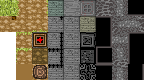
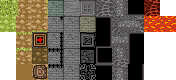
Room transitions and message done

diff --git a/src/cdsv_rogue/Room.java b/src/cdsv_rogue/Room.java
@@ -20,6 +20,8 @@ public class Room extends World {
 	private ArrayList<Unit> enemies;
 	private TiledMap room;
 	private Animation teleport;
+	private int currentRoom;
+	private Image message;
 
 	public Room(int id, GameContainer gc) throws SlickException {
 		super(id, gc);
@@ -30,20 +32,15 @@ public class Room extends World {
 			throws SlickException {
 		super.init(gc, sbg);
 		room = new TiledMap("res/levels/exampleRoom.tmx");
-		for (int i = 0; i < room.getObjectCount(0); i++) {
-			Solid wall = new Solid(room.getObjectX(0, i),
-					room.getObjectY(0, i), room.getObjectWidth(0, i),
-					room.getObjectHeight(0, i), 0, new Image(
-							room.getObjectWidth(0, i), room.getObjectHeight(0,
-									i)));
-			add(wall);
-		}
+		currentRoom = 1;
+		message = new Image("res/pressenter.png");
+		generateSolids(room);
 		player = new PlayerUnit(320, 240, this);
 		frog = new FrogUnit(120, 80, this, player);
 		// the add() method adds any Entity to a list, where all of the
 		// rendering and updating happens
 		add(player);
-		add(frog);
+		//add(frog);
 		//keep track of enemies
 		enemies = new ArrayList<Unit>();
 		//enemies.add(frog);
@@ -62,8 +59,9 @@ public class Room extends World {
 		if(enemies.isEmpty()){
 			teleport.setPingPong(true);
 			teleport.draw(320, 240);
-			g.drawString("Press Enter to move on!", 230,  260);
+			message.draw(269, 180);
 		}
+		
 	}
 
 	// where all of the logic happens
@@ -96,23 +94,37 @@ public class Room extends World {
 		player.y = player.starty;
 		ArrayList<Entity> entities = (ArrayList<Entity>) super.getEntities();
 		for(int i = 0; i < entities.size(); i++){
-			if(entities.get(i).isType("SOLID") || entities.get(i).isType("ENEMY")){
+			if(entities.get(i).isType("SOLID") || entities.get(i).isType("ENEMY") || entities.get(i).isType("SPELLS")){
 				entities.get(i).destroy();
 			}
 		}
 		//re-initialize solids, enemies, and player
-		room = new TiledMap("res/levels/exampleRoom2.tmx"); //this should change depending on the current room
-		for (int i = 0; i < room.getObjectCount(0); i++) {
-			Solid wall = new Solid(room.getObjectX(0, i),
-					room.getObjectY(0, i), room.getObjectWidth(0, i),
-					room.getObjectHeight(0, i), 0, new Image(
-							room.getObjectWidth(0, i), room.getObjectHeight(0,
+		switch(currentRoom){ //sets up stuff from the next room
+			case 1: //move to second room
+				room = new TiledMap("res/levels/exampleRoom2.tmx"); //this should change depending on the current room
+				add(frog);
+				enemies.add(frog);
+				break;
+			case 2: //move to third room
+				break;
+			//and so on for the other rooms
+		}
+		//anything beyond this line should run regardless of the current room
+		generateSolids(room);
+		add(player);
+	}
+	
+	//creates Solid objects around the room based on a given TiledMap
+	private void generateSolids(TiledMap map) throws SlickException{
+		for (int i = 0; i < map.getObjectCount(0); i++) {
+			Solid wall = new Solid(map.getObjectX(0, i),
+					map.getObjectY(0, i), map.getObjectWidth(0, i),
+					map.getObjectHeight(0, i), 0, new Image(
+							map.getObjectWidth(0, i), map.getObjectHeight(0,
 									i)));
 			add(wall);
 		}
-		add(player);
-		add(frog);
-		enemies.add(frog);
 	}
+	
 
 }

diff --git a/src/cdsv_rogue/PlayerUnit.java b/src/cdsv_rogue/PlayerUnit.java
@@ -79,7 +79,8 @@ public class PlayerUnit extends Unit{
 			room.addSpell(new Fireball(room, this, x, y, dx, dy));
 		}
 		if(check("NEXT")){
-			if(ready){
+			//teleport only works if within 8 pixels of the teleporter
+			if(ready && (Math.abs(x - 320) < 8 && Math.abs(y - 240) < 8)){
 				ready = false;
 				//change the Room class's TiledMap reference to the next room
 				room.roomTransition();
